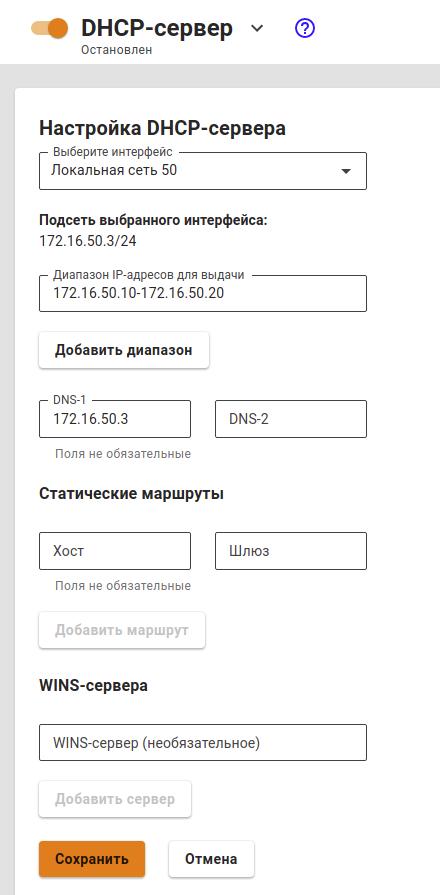
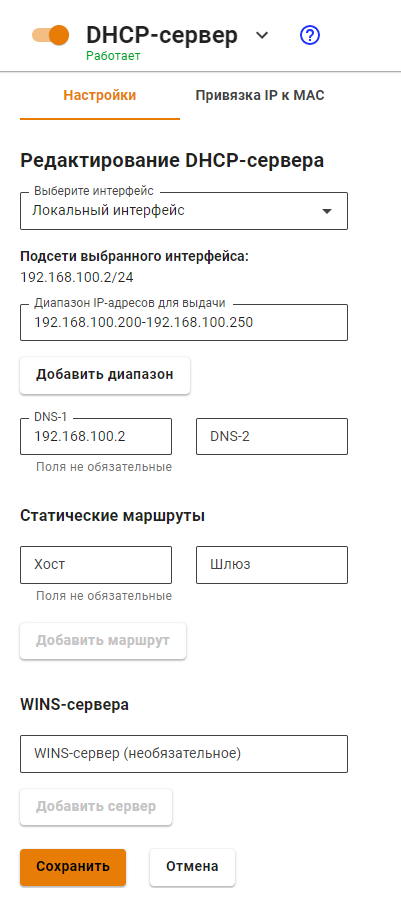
Дополнила статью, обновиа скриншоты, добавила вкладку "Привязка IP+Mac"

diff --git a/settings/services/dhcp.md b/settings/services/dhcp.md
@@ -43,6 +43,32 @@ dateCreated: '2021-04-02T07:25:10.501Z'
 
 ![](../../.gitbook/assets/dhcp-on.gif)
 
+## Настройка DHCP-сервера с привязкой IP к MAC
+
+Для настройки в DHCP-сервере привязки IP-адреса к MAC-адресу, необходимо:
+
+1\. В разделе **Сервисы -> DHCP** выберите вкладку **Привязка IP к MAC**
+
+![](../../.gitbook/assets/dhcp-binding-creating-rule.png)
+
+2\. Создайте правило привязки **IP к MAC** по следующему образу:
+
+![](../../.gitbook/assets/dhcp-binding-rule.png)
+
+| Название поля  |  Описание  |
+|:-------------: | ---------- |
+| MAC  | MAC-адрес компьютера или устройства  |
+| IP | IP-адрес, который будет присваиваться указанному MAC-адресу  |
+| Комментарий | Произвольный комментарий для идентификации правила |
+
+Созданное правило с привязкой показано ниже на скриншоте:
+
+![](../../.gitbook/assets/dhcp-binding-ready-rule.png)
+
+Для проверки созданного правила, на компьютере с указанным в правиле MAC-адресом, получите IP-адрес по DHCP и проверьте результат с помощью команды `ipconfig /all`
+
+![](../../.gitbook/assets/dhcp-binding-result.png)
+
 ## Советы по настройке клиентов
 
 Некоторые устройства предоставляют MAC-адрес с разделенными с помощью дефиса октетами \(`01-02-03-04-05-06`\). В настройках Ideco UTM октеты MAC-адреса разделяются только двоеточиями \(`01:02:03:04:05:06`\). Поэтому будьте внимательны при согласовании настроек клиентских устройств и DHCP-сервера на Ideco UTM.
